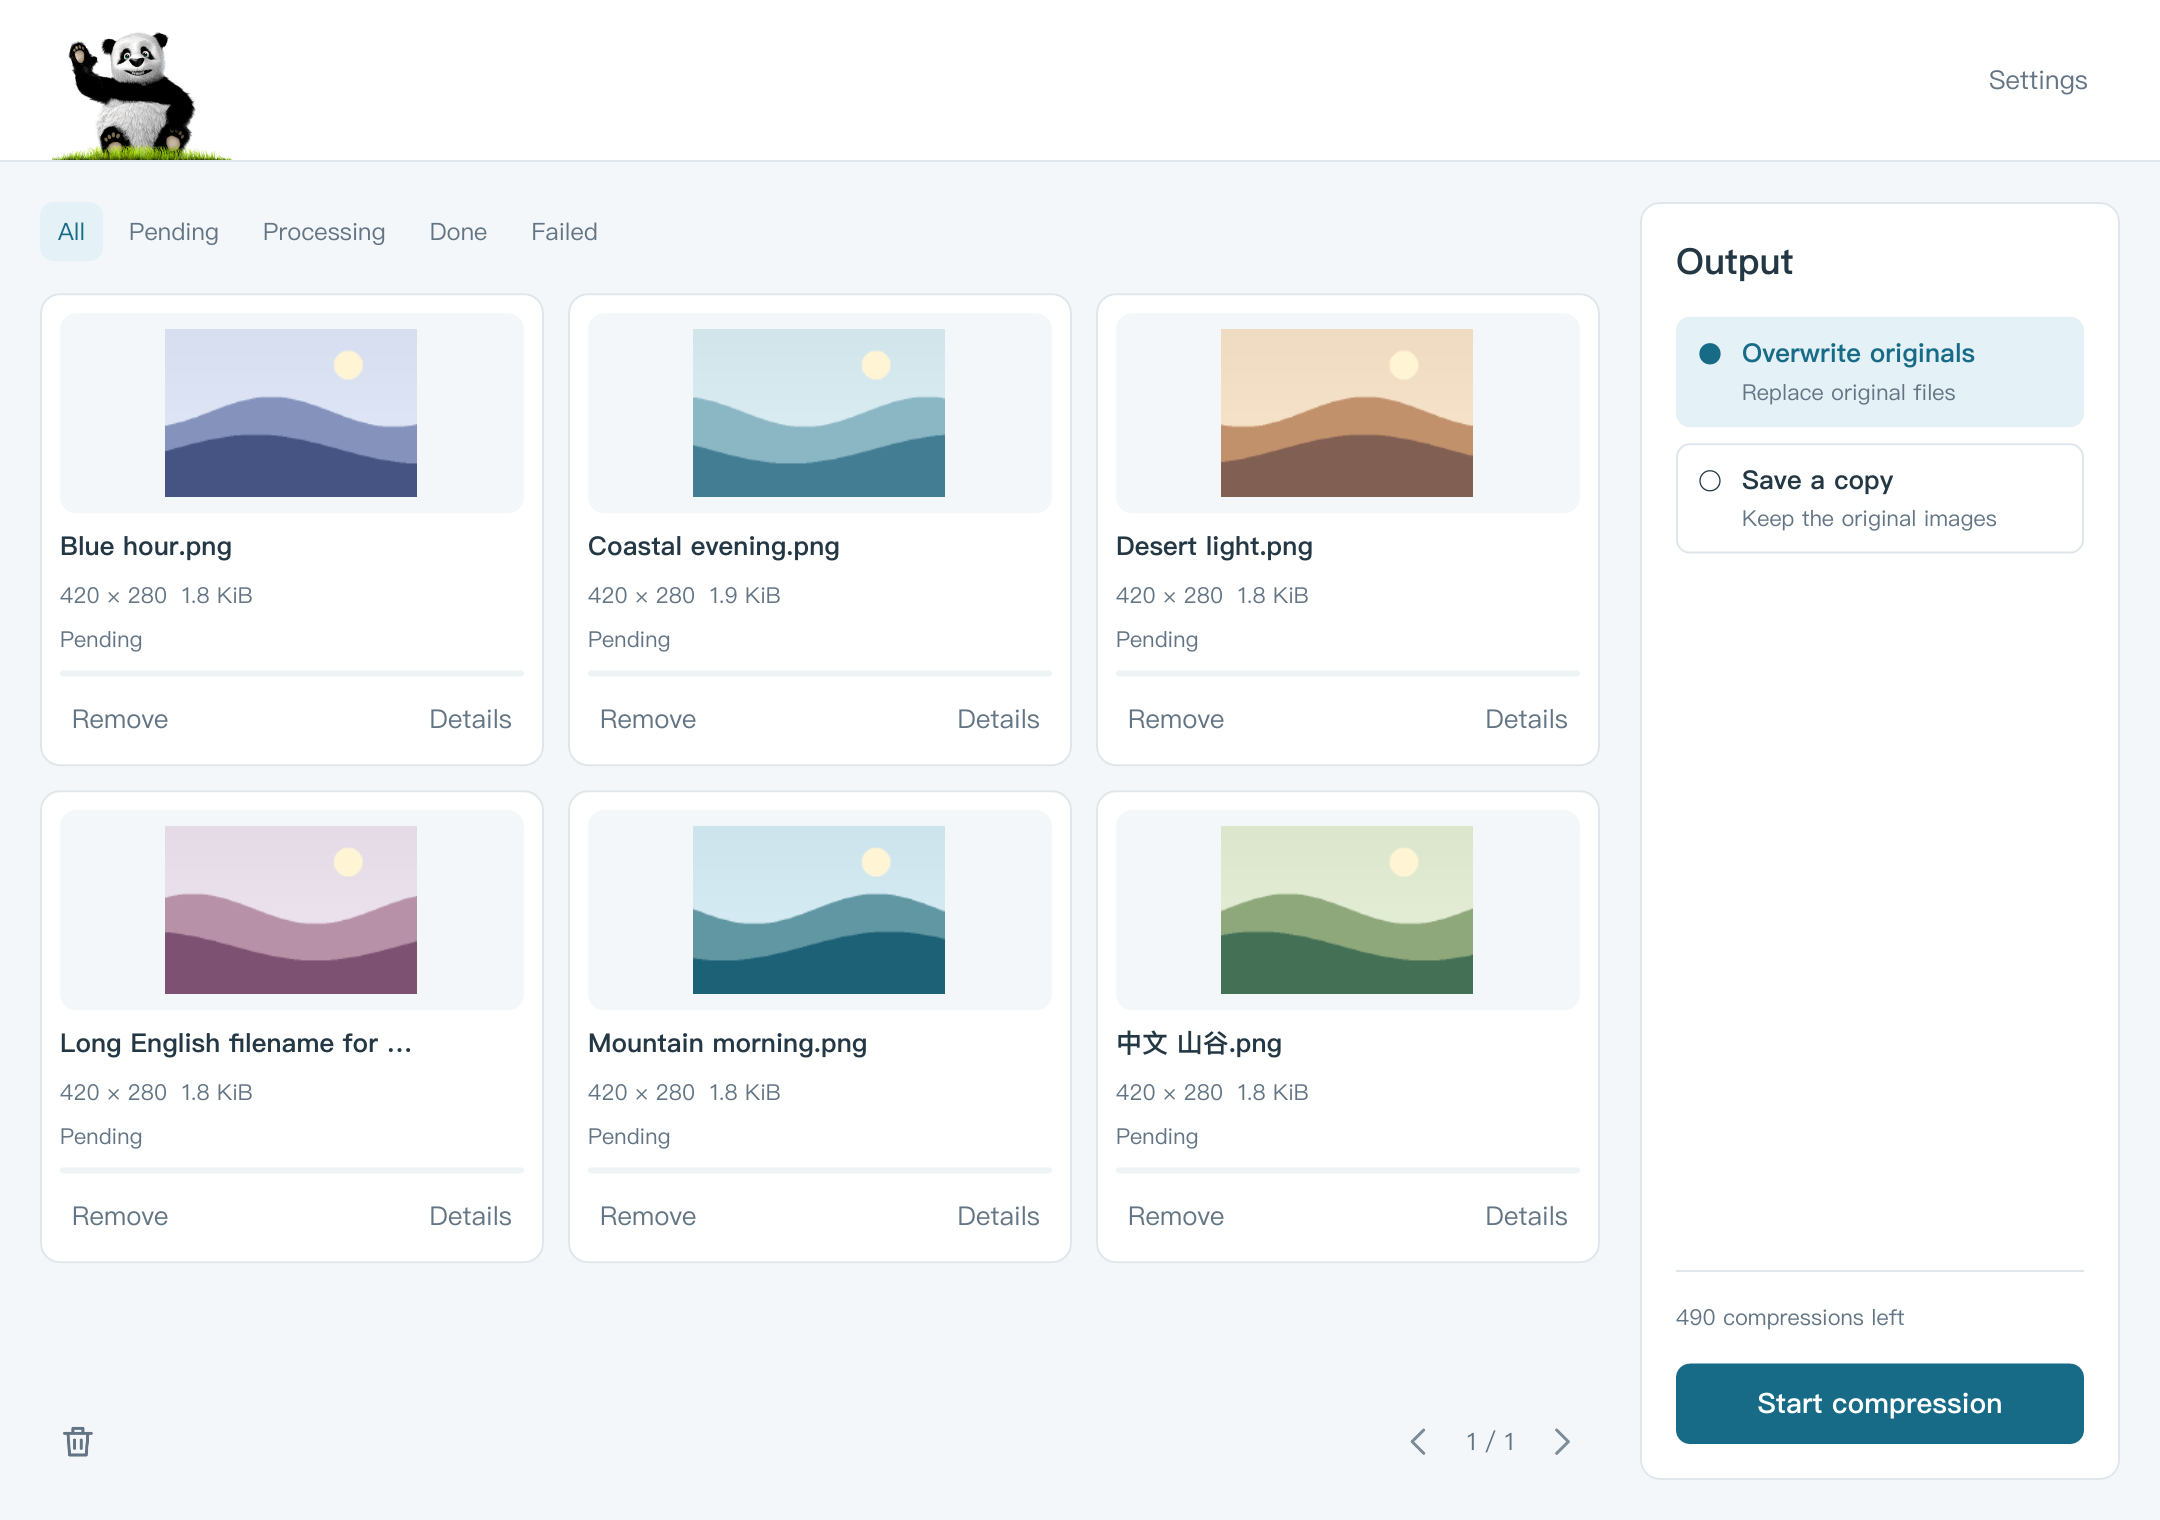
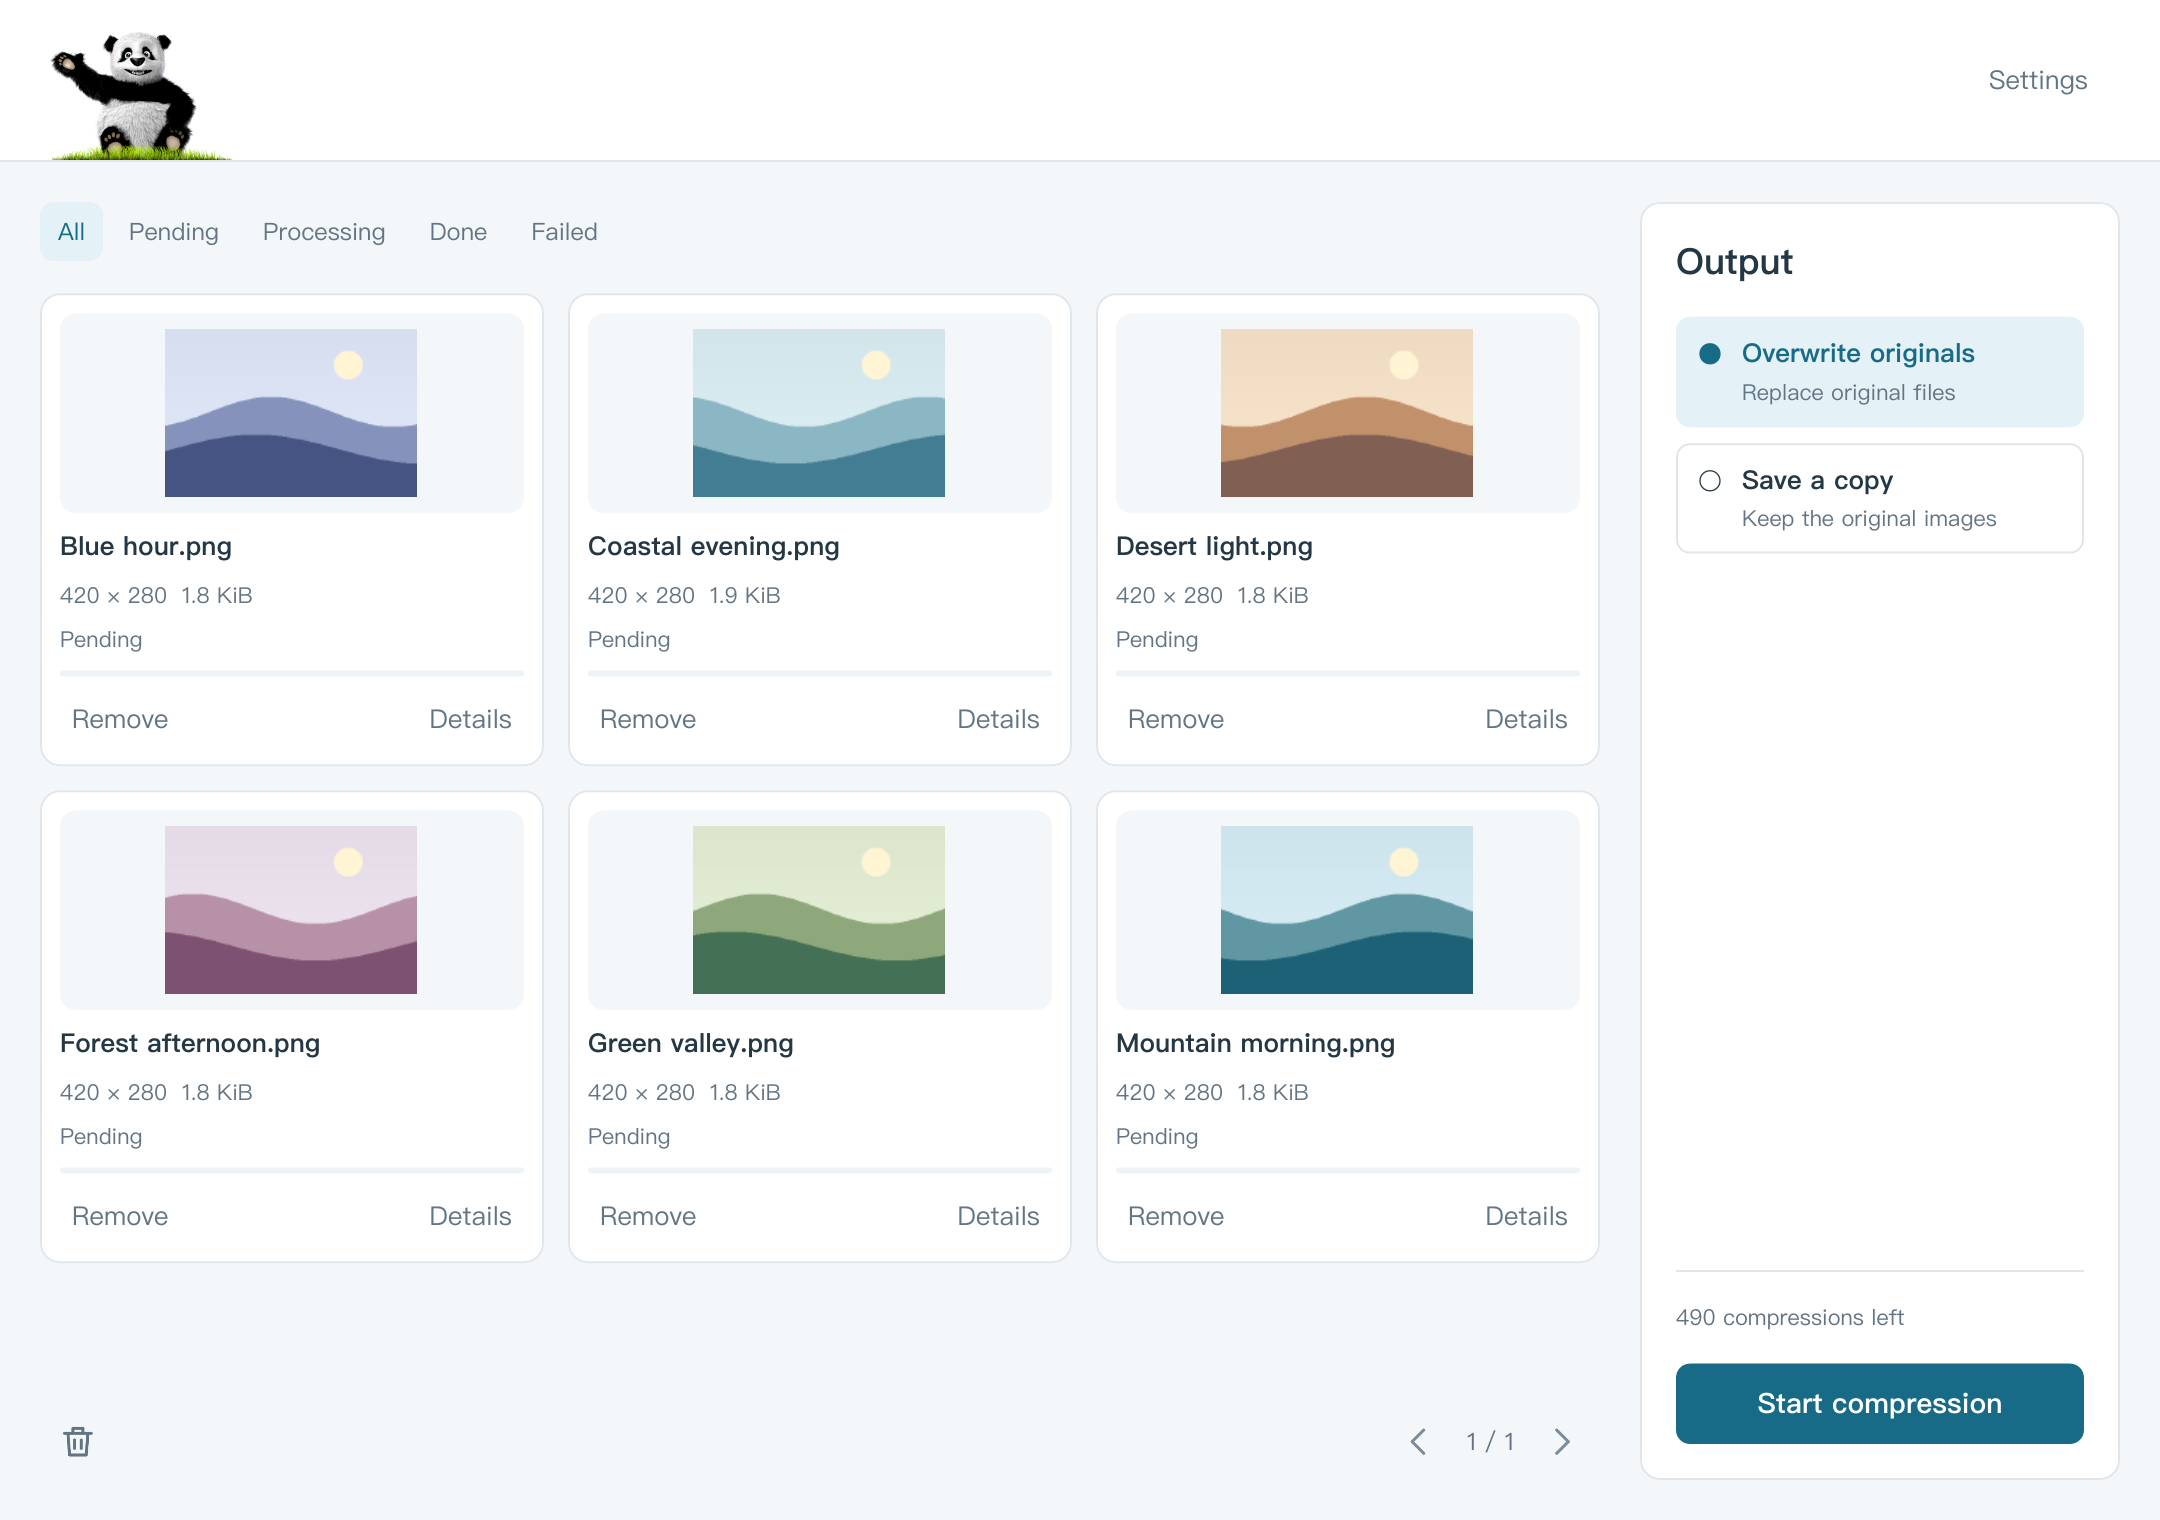
Use English demo screenshots and publish desktop release downloads

diff --git a/scripts/render-ui.py b/scripts/render-ui.py
@@ -29,12 +29,14 @@ SCENES = {
     'dark-zh-filter-empty': ('dark', 'zh-CN', 'filter-empty', True),
     'light-en-states-small': ('light', 'en', 'states', True),
     'light-en-done': ('light', 'en', 'done', True),
+    'dark-en-done': ('dark', 'en', 'done', True),
     'dark-zh-done': ('dark', 'zh-CN', 'done', True),
     'light-en-directory-small': ('light', 'en', 'directory', True),
     'dark-zh-directory-small': ('dark', 'zh-CN', 'directory', True),
     'light-en-keys': ('light', 'en', 'keys', True),
     'dark-zh-keys-many': ('dark', 'zh-CN', 'keys-many', True),
     'light-en-settings': ('light', 'en', 'settings', True),
+    'dark-en-settings': ('dark', 'en', 'settings', True),
     'dark-zh-settings': ('dark', 'zh-CN', 'settings', True),
     'system-en-settings': ('system', 'en', 'settings', True),
     'system-zh-settings': ('system', 'zh-CN', 'settings', True),
@@ -44,6 +46,13 @@ SCENES = {
     'dark-zh-keys-usage-error': ('dark', 'zh-CN', 'keys-usage-error', True),
     'light-en-toast-many': ('light', 'en', 'toast-many', True),
     'light-en-preview': ('light', 'en', 'preview', False),
+}
+DOC_SCENES = {
+    'light-en-gallery': 'gallery-light-en.png',
+    'dark-en-done': 'completed-dark-en.png',
+    'light-en-settings': 'settings-light-en.png',
+    'dark-en-settings': 'settings-dark-en.png',
+    'light-en-preview': 'preview-light-en.png',
 }
 
 def png(path, index):
@@ -72,25 +81,30 @@ def main():
     parser.add_argument('--skip-build', action='store_true')
     parser.add_argument('--capture-ms', type=int, default=800)
     parser.add_argument('--scene', action='append', choices=SCENES)
-    parser.add_argument('--output', type=Path, default=ROOT / 'docs' / 'ui-screenshots')
+    parser.add_argument('--docs', action='store_true', help='Render all public README screenshots with English UI and sample filenames')
+    parser.add_argument('--output', type=Path)
     args = parser.parse_args()
+    if args.docs and args.scene:
+        parser.error('--docs selects the public scenes; do not combine it with --scene')
     if not args.skip_build:
         cargo = shutil.which('cargo') or str(Path.home()/'.cargo/bin'/('cargo.exe' if platform.system() == 'Windows' else 'cargo'))
         subprocess.run([cargo,'build','--locked'],cwd=ROOT,check=True)
     binary = ROOT/'target/debug'/('tinyeasy.exe' if platform.system()=='Windows' else 'tinyeasy')
-    output=args.output.resolve();output.mkdir(parents=True,exist_ok=True)
+    output=(args.output or ROOT / 'docs' / ('images' if args.docs else 'ui-screenshots')).resolve();output.mkdir(parents=True,exist_ok=True)
     with tempfile.TemporaryDirectory(prefix='tinyeasy-render-ui-') as temporary:
         directory=Path(temporary);config=directory/'config';config.mkdir()
         images=directory/'images';images.mkdir();(directory/'Output 中文 images').mkdir()
         names=['Mountain morning.png','Desert light.png','Blue hour.png','中文 山谷.png','Long English filename for layout verification.png','Coastal evening.png']
+        if args.docs:
+            names=['Mountain morning.png','Desert light.png','Blue hour.png','Green valley.png','Forest afternoon.png','Coastal evening.png']
         for index,name in enumerate(names):png(images/name,index)
-        for name in args.scene or SCENES:
+        for name in DOC_SCENES if args.docs else args.scene or SCENES:
             theme,language,scene,small=SCENES[name]
             (config/'settings.json').write_text(json.dumps({'version':1,'theme':theme,'language':language}))
             env=os.environ.copy()
             for key in list(env):
                 if key.startswith('TINYEASY_QA_') or key in ('TINIFY_API_KEY','TINIFY_API_KEYS'):env.pop(key)
-            screenshot=output/(name+'.png')
+            screenshot=output/(DOC_SCENES[name] if args.docs else name+'.png')
             env.update(TINYEASY_QA_DIR=str(config),TINYEASY_QA_SCENE=scene,TINYEASY_QA_SCREENSHOT=str(screenshot),TINYEASY_QA_EXIT='1',TINYEASY_QA_CAPTURE_MS=str(args.capture_ms))
             if small:env['TINYEASY_QA_SMALL']='1'
             if scene in ('gallery','states','preview','directory','filter-empty','done'):env['TINYEASY_QA_IMPORT']=str(images)

diff --git a/scripts/package.py b/scripts/package.py
@@ -59,6 +59,7 @@ def main():
             artifact = output / (stem + ".dmg")
             subprocess.run(["hdiutil", "create", "-ov", "-format", "UDZO", "-volname", "TinyEasy", "-srcfolder", str(stage), str(artifact)], check=True)
         elif system == "Windows":
+            shutil.copy2(executable, output / (stem + ".exe"))
             artifact = output / (stem + ".zip")
             with zipfile.ZipFile(artifact, "w", zipfile.ZIP_DEFLATED, compresslevel=9) as archive:
                 archive.write(executable, "TinyEasy/tinyeasy.exe")

diff --git a/README.md b/README.md
@@ -16,7 +16,19 @@ TinyEasy brings Tinify image compression into a small desktop workspace: import 
 
 *Light theme, English UI: image cards and status filters on the left, output options and available quota on the right. All screenshots use generated images and simulated task/quota data; the displayed savings are illustrative.*
 
-[Features](#features) · [Quick start](#quick-start) · [Screenshots](#screenshots) · [Shortcuts](#shortcuts) · [Build and package](#build-and-package) · [Configuration](#configuration-and-data) · [Contributing](#contributing)
+[Download](#download) · [Features](#features) · [Quick start](#quick-start) · [Screenshots](#screenshots) · [Shortcuts](#shortcuts) · [Build and package](#build-and-package) · [Configuration](#configuration-and-data) · [Contributing](#contributing)
+
+## Download
+
+Download the current release from [GitHub Releases](https://github.com/chaneasy/TinyEasy/releases/latest).
+
+| Platform | Download |
+| --- | --- |
+| Windows x64 | [Portable EXE](https://github.com/chaneasy/TinyEasy/releases/latest/download/TinyEasy-2.0.0-windows-x86_64.exe) · [ZIP](https://github.com/chaneasy/TinyEasy/releases/latest/download/TinyEasy-2.0.0-windows-x86_64.zip) |
+| macOS Apple Silicon | [DMG](https://github.com/chaneasy/TinyEasy/releases/latest/download/TinyEasy-2.0.0-darwin-aarch64.dmg) |
+| Linux x64 | [tar.gz](https://github.com/chaneasy/TinyEasy/releases/latest/download/TinyEasy-2.0.0-linux-x86_64.tar.gz) |
+
+Windows: run the EXE directly, or extract the ZIP and run `tinyeasy.exe`. macOS: open the DMG and drag TinyEasy to Applications. The macOS package uses ad-hoc signing and is not notarized.
 
 ## Features
 
@@ -33,7 +45,7 @@ TinyEasy brings Tinify image compression into a small desktop workspace: import 
 
 ## Quick start
 
-1. Build and run using the [instructions below](#build-and-package), or launch a package built for your platform.
+1. Download and launch the [package for your platform](#download), or build using the [instructions below](#build-and-package).
 2. Get an API Key from the [Tinify developer page](https://tinify.com/developers). On first launch without a Key, TinyEasy opens **Settings → API Keys**. Add your Key and save; validation runs after saving.
 3. Click **Import**, then choose **Images** or **Folder**. You can also drag files/folders into the window. To add more files once the gallery is populated, use drag-and-drop or `Cmd/Ctrl+O`.
 4. Choose **Overwrite originals** or **Save a copy** in the Output panel. For copies, choose an output folder and optionally enable **Keep folder structure**.
@@ -45,9 +57,9 @@ The current quota model uses a limit of **500 compressions per Key**. Paid-accou
 
 ## Screenshots
 
-### Dark theme and Chinese UI
+### Dark theme and English UI
 
-![Dark Chinese UI showing completed images and batch statistics](docs/images/completed-dark-zh.png)
+![Dark English UI showing completed images and batch statistics](docs/images/completed-dark-en.png)
 
 *Completed image cards show individual results; the Output panel summarizes progress and space saved. This is a simulated completion scene.*
 
@@ -130,12 +142,12 @@ python3 scripts/package.py
 | Platform | Output in `release/rust/` | Recorded validation |
 | --- | --- | --- |
 | macOS | `TinyEasy.app` and `.dmg` | arm64 build and local packaging verified; x86_64 not built |
-| Windows | Portable `.zip` | Native build/test/package workflow configured; no executed Windows results recorded |
+| Windows | Portable `.exe` and `.zip` | Native build/test/package workflow configured; no executed Windows results recorded |
 | Linux | `.tar.gz` | Native build/test/package workflow configured; no executed Linux results recorded |
 
 Each package has a JSON manifest containing exact artifact/binary byte counts and a SHA-256 checksum. Measure package sizes from the artifacts produced by the build you intend to distribute.
 
-macOS packaging currently uses **ad-hoc signing**, without Developer ID signing or notarization. The [GitHub Actions workflow](.github/workflows/rust.yml) runs checks and packages on macOS, Windows, and Ubuntu, then uploads workflow artifacts; it does not automatically publish GitHub Releases.
+macOS packaging currently uses **ad-hoc signing**, without Developer ID signing or notarization. The [GitHub Actions workflow](.github/workflows/rust.yml) runs checks and packages on macOS, Windows, and Ubuntu, then uploads workflow artifacts. Pushing a version tag such as `v2.0.0` also publishes the EXE, ZIP, DMG, Linux archive, and checksum manifests to GitHub Releases after all platform checks pass.
 
 **Platform limitations:** iced 0.14 does not provide native file-drop events on Wayland. Use Import for the initial batch and `Ctrl+O` to add images afterward. X11/native drag-and-drop still needs platform verification. Native screen-reader accessibility also requires further work and validation.
 
@@ -165,10 +177,10 @@ With a desktop display available, render generated scenes without loading user c
 
 ```bash
 python3 scripts/render-ui.py
-python3 scripts/render-ui.py --scene dark-zh-gallery-small
+python3 scripts/render-ui.py --docs
 ```
 
-Generated QA screenshots go to `docs/ui-screenshots/`, which is ignored by Git and excluded from packages. Public README images live in `docs/images/`. Debug builds support `TINYEASY_QA_DIR` for an isolated preference directory, `TINYEASY_QA_SCENE` (for example `settings`, `keys-many`, `preview`), `TINYEASY_QA_IMPORT` for generated/copied images, and `TINYEASY_QA_SMALL=1` for a small window. The QA entry points are removed from release builds. Use temporary directories and image copies when testing.
+Generated QA screenshots go to `docs/ui-screenshots/`, which is ignored by Git and excluded from packages. Public README images live in `docs/images/`; regenerate them with `--docs` to keep the UI and sample filenames in English in both README languages. Debug builds support `TINYEASY_QA_DIR` for an isolated preference directory, `TINYEASY_QA_SCENE` (for example `settings`, `keys-many`, `preview`), `TINYEASY_QA_IMPORT` for generated/copied images, and `TINYEASY_QA_SMALL=1` for a small window. The QA entry points are removed from release builds. Use temporary directories and image copies when testing.
 
 ## Contributing
 
